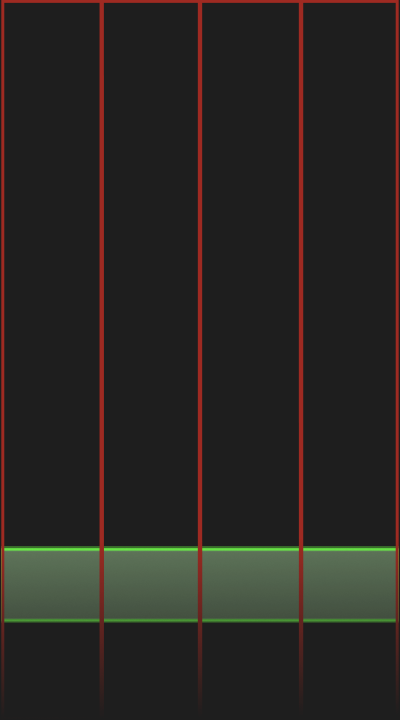
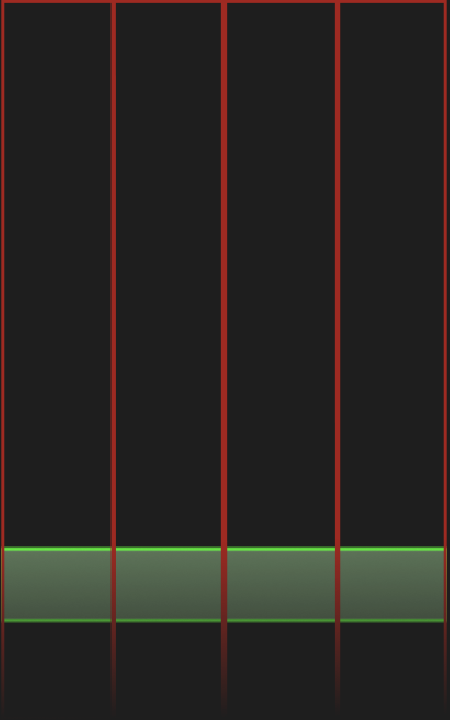
RhythmBattle for 1 done

diff --git a/RhythmGame/RhythmBattle.cs b/RhythmGame/RhythmBattle.cs
@@ -10,8 +10,8 @@ public class RhythmBattle : GameObject
     #region Fields and properties
     
     #region Constants
-    private const short NOTE_WIDTH = 145;
-    private const short BUTTON_WIDTH = 145;
+    private const short NOTE_WIDTH = 114;
+    private const short BUTTON_WIDTH = 114;
     private const float DIST_MULT = 1f;
     private readonly float SAFE_NOTE_BREACH = Game.main.height/ 2;
     #endregion
@@ -184,14 +184,11 @@ public class RhythmBattle : GameObject
         {
             #region Visual and GUI
             Sprite background = new Sprite("Battle_base");
-            background.SetOrigin(background.width / 2, 0);
+            background.SetOrigin(background.width / 2 + 18, 0);
             background.SetScaleXY(background.scaleX, background.scaleY);
-            background.SetXY((int)Game.main.width / 2, -25);
-
-            AddChild(background);
+            background.SetXY(Game.main.width / 2, -25);
 
             _noteParent = new Sprite("Empty");
-            AddChild(_noteParent);
             #endregion
 
             #region Collision Hit-Tests
@@ -200,7 +197,7 @@ public class RhythmBattle : GameObject
             Sprite thirdHitTest = new Sprite("Empty", true);
             NoteHitTests = new Sprite[3] { firstHitTest, secondHitTest, thirdHitTest };
 
-            int yPosCounter = 148;
+            int yPosCounter = 192;
             for (int i = 0; i < 3; i++)
             {
                 Sprite hitTest = NoteHitTests[i];
@@ -208,16 +205,12 @@ public class RhythmBattle : GameObject
                 hitTest.SetXY(0, Game.main.height - yPosCounter);
                 yPosCounter -= 32;
             }
-
-            AddChild(firstHitTest);
-            AddChild(secondHitTest);
-            AddChild(thirdHitTest);
             #endregion
 
             #region Buttons
             _1Button = new AnimationSprite("1Rhythm_Button", 2, 1);
-            _2Button = new AnimationSprite("2Rhythm_Button", 2, 1);
-            _3Button = new AnimationSprite("3Rhythm_Button", 2, 1);
+            _2Button = new AnimationSprite("3Rhythm_Button", 2, 1);
+            _3Button = new AnimationSprite("2Rhythm_Button", 2, 1);
             _4Button = new AnimationSprite("4Rhythm_Button", 2, 1);
 
             Sprite[] buttons = new Sprite[4] { _1Button, _2Button, _3Button, _4Button };
@@ -225,14 +218,37 @@ public class RhythmBattle : GameObject
             {
                 Sprite button = buttons[i + 2];
                 button.SetOrigin(button.width / 4, button.height / 2);
-                button.SetXY(Game.main.width / 2 + (BUTTON_WIDTH * i * DIST_MULT), Game.main.height);
+                button.SetXY(Game.main.width / 2 + (BUTTON_WIDTH * i * DIST_MULT), Game.main.height - 60);
                 button.SetScaleXY(button.scaleX / 2, button.scaleY);
             }
 
-            AddChild(_1Button);
-            AddChild(_2Button);
-            AddChild(_3Button);
-            AddChild(_4Button);
+
+            ValueDisplayer<int> combo = new ValueDisplayer<int>(() => Combo, 220, 720);
+            EasyDraw comboText = new EasyDraw(220, 720);
+            combo.SetXY(-325, 340);
+            comboText.SetXY(-325, 520);
+            combo.rotation = -90;
+            comboText.rotation = -90;
+            combo.TextSize(36);
+            comboText.TextSize(36);
+            comboText.Text("Combo: ");
+            combo.SetColor(0, 1, 0);
+            comboText.SetColor(0, 1, 0);
+
+            AddChildren(new GameObject[]
+            {
+                background,
+                _noteParent,
+                firstHitTest,
+                secondHitTest,
+                thirdHitTest,
+                _1Button,
+                _2Button,
+                _3Button,
+                _4Button,
+                comboText,
+                combo
+            }) ;
             #endregion
         }
     }
@@ -289,7 +305,7 @@ public class RhythmBattle : GameObject
                 TryHitNote(2);
             }
             if (Input.GetKeyUp(Key.S))
-                _1Button.currentFrame = 0;
+                _3Button.currentFrame = 0;
 
             if (Input.GetKeyDown(Key.D))
             {
@@ -305,7 +321,7 @@ public class RhythmBattle : GameObject
         byte noteColumn = (byte)new Random().Next(0,4);
         Note note = new Note(noteColumn, this, Speed);
         note.SetOrigin(note.width / 2, note.height / 2);
-        note.SetXY(Game.main.width / 2 + (NOTE_WIDTH * (noteColumn - 2) * DIST_MULT) + 3, - 60);
+        note.SetXY(Game.main.width / 2 + (NOTE_WIDTH * (noteColumn - 2) * DIST_MULT) + 38, - 60);
         NoteColumns[noteColumn].Add(note);
         _noteParent.AddChild(note);
     }
@@ -347,7 +363,7 @@ public class RhythmBattle : GameObject
         }
         NoteColumns[column].RemoveAt(0);
 
-        Level.AddScore(result * 4, _id);
+        Level.AddScore(result * 4 + Combo, _id);
     }
     public void DealDamage() => Level.Players[_id].ChangeHP(Level.Players[_id].HP > 0? -1 : 0);
 

diff --git a/RhythmGame/SetupAttack.cs b/RhythmGame/SetupAttack.cs
@@ -32,7 +32,10 @@ public partial class Setup : Game
                 SlowCrossAttack2(1);
                 break;
             case "RhythmBattleSmall":
-                RhythmBattle(10,0.5f,10);
+                RhythmBattle(15, 0.5f, 10);
+                break;
+            case "RhythmBattle":
+                RhythmBattle(20, 0.4f, 15);
                 break;
             case "SCA1": SubCrossAttack(0.785398163f + Time.time / 1000);
                 break;

diff --git a/RhythmGame/OverallLogic/Player.cs b/RhythmGame/OverallLogic/Player.cs
@@ -110,7 +110,8 @@ public class Player : Unit
         }
         else
         {
-            rhythmBattle.FinishBattle();
+            if(rhythmBattle != null)
+                rhythmBattle.FinishBattle();
             Desubscribe();
             LateDestroy();
             Level.Players.Remove(this);
